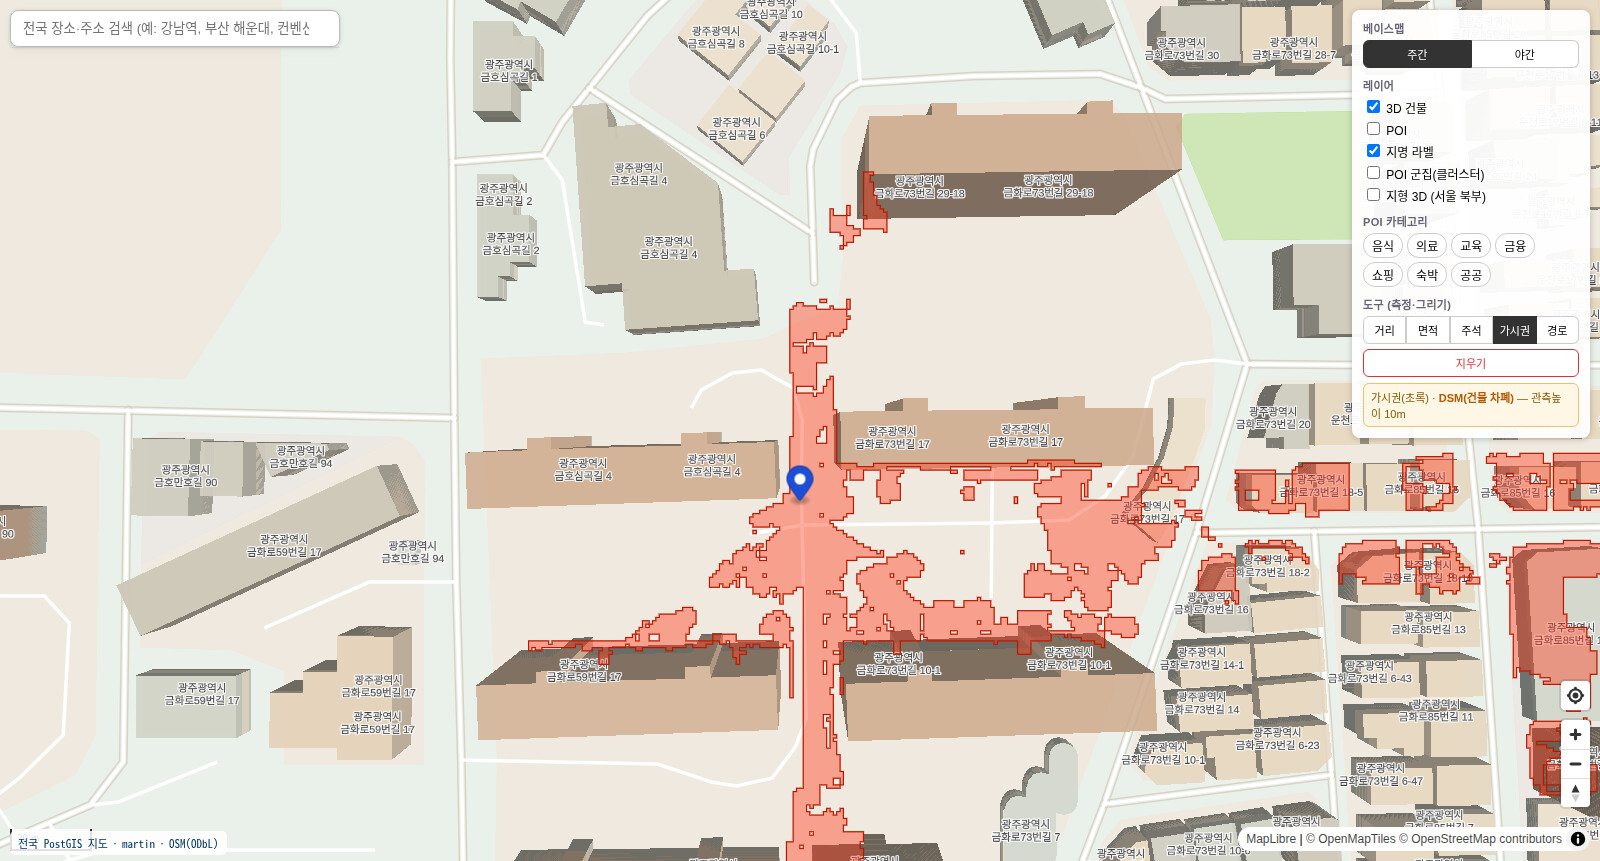
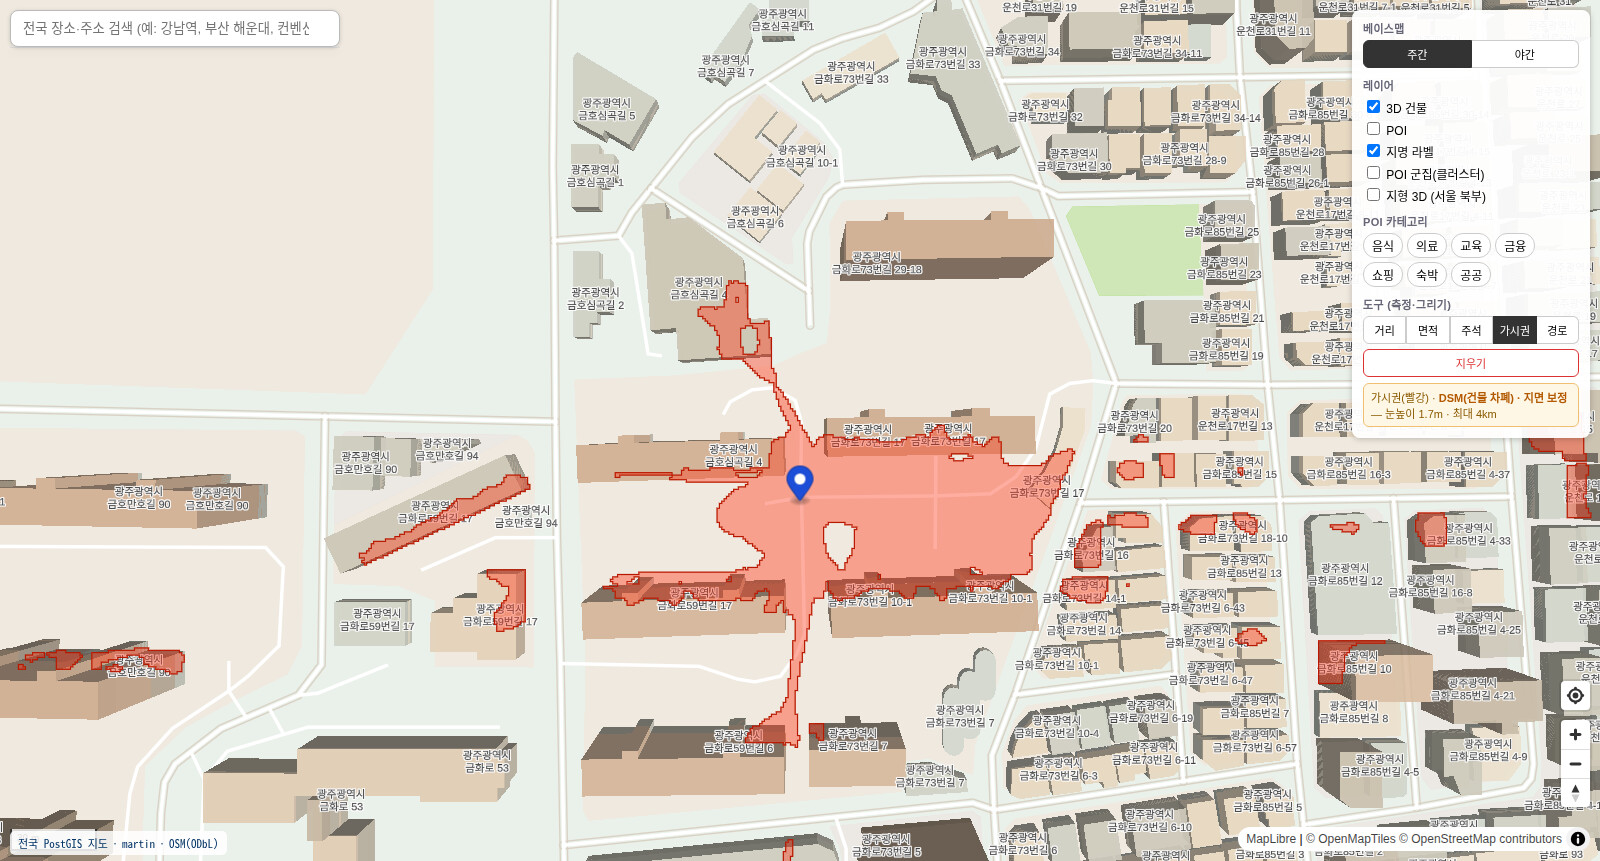
fix: 가시권 표면을 '지면(DTM)+건물'로 재구성 — 나무/노이즈 과차폐 제거
문제: LAS가 미분류라 max-Z DSM이 가로수·노이즈까지 표면으로 잡아 보여야 할
도로·개활지가 가려짐(과도한 차폐).
해결: 지면 DTM(최소Z) 평활화 + 건물 footprint(708동) 높이만 가산.
- scripts/build_viewshed_surface.py: LAS→DTM→평활화→건물 rasterize
- 같은 지점 가시면적 1.6천→1.1만㎡ (도로·개활지가 제대로 보임)
- README/스크린샷 갱신

diff --git a/scripts/build_viewshed_surface.py b/scripts/build_viewshed_surface.py
@@ -1,0 +1,64 @@
+#!/usr/bin/env python3
+"""가시권용 '건물 차폐' 표면 = 지면(DTM, 최소Z) + 건물 footprint 높이.
+LAS가 미분류라 max-Z DSM은 나무·노이즈가 시야를 헛막음 → 지면 위에 건물만 세워
+나무/노이즈를 배제. 사람 눈높이 도심 가시권에 적합.
+사용: /usr/bin/python3 build_viewshed_surface.py
+산출: viewer/gwangju_dsm_3857.tif (지면+건물, EPSG:3857, 1m)  ← /viewshed가 사용
+"""
+import glob, subprocess, numpy as np, laspy
+from osgeo import gdal, osr
+gdal.UseExceptions()
+
+LAS = sorted(glob.glob("/home/asus-3080/gsplat-pilot/data/gwangju/*.las"))
+VIEWER = "/home/asus-3080/gsplat-pilot/viewer"
+DTM = "/tmp/gw_dtm.tif"; OUT = VIEWER + "/gwangju_dsm_3857.tif"
+RES = 1.0
+P4 = "+proj=tmerc +lat_0=38 +lon_0=127 +k=1 +x_0=200000 +y_0=500000 +ellps=GRS80 +towgs84=0,0,0,0,0,0,0 +units=m +no_defs"
+
+# union 범위 (LAS x=easting, y=northing)
+emin=nmin=1e18; emax=nmax=-1e18
+for p in LAS:
+    h=laspy.open(p).header
+    emin=min(emin,h.mins[0]); emax=max(emax,h.maxs[0])
+    nmin=min(nmin,h.mins[1]); nmax=max(nmax,h.maxs[1])
+W=int((emax-emin)/RES); H=int((nmax-nmin)/RES)
+print(f"DTM {W}x{H}")
+
+# 지면 = 셀별 최소Z (나무 밑 지면 통과점 활용). 노이즈 방지 위해 5%분위 근사로 min 사용
+dtm=np.full((H,W), 1e9, np.float32); d=dtm.ravel()
+for p in LAS:
+    las=laspy.read(p)
+    e=np.asarray(las.x); n=np.asarray(las.y); z=np.asarray(las.z)
+    col=np.clip(((e-emin)/RES).astype(np.int32),0,W-1)
+    row=np.clip(((nmax-n)/RES).astype(np.int32),0,H-1)
+    fl=row*W+col; o=np.argsort(z)[::-1]   # 내림차순 → 마지막(최소)이 남음
+    np.minimum.at(d,fl[o],z[o])
+    print(f"  {p.split('/')[-1]}: {len(z):,}")
+dtm[dtm>1e8]=-9999.0
+
+s=osr.SpatialReference(); s.ImportFromProj4(P4)
+ds=gdal.GetDriverByName("GTiff").Create(DTM,W,H,1,gdal.GDT_Float32,["COMPRESS=DEFLATE"])
+ds.SetGeoTransform((emin,RES,0,nmax,0,-RES)); ds.SetProjection(s.ExportToWkt())
+ds.GetRasterBand(1).WriteArray(dtm); ds.GetRasterBand(1).SetNoDataValue(-9999); ds=None
+subprocess.run(["cp",DTM,"/tmp/_d0.tif"],check=True)
+subprocess.run(["gdal_fillnodata.py","-md","25","/tmp/_d0.tif",DTM],check=True)
+# 3857 변환
+DTM3857="/tmp/gw_dtm_3857.tif"
+subprocess.run(["gdalwarp","-t_srs","EPSG:3857","-tr","1","1","-r","near","-dstnodata","-9999",
+                "-overwrite","-co","COMPRESS=DEFLATE",DTM,DTM3857],check=True)
+
+# 지면 평활화(6m 평균→bilinear 업샘플): 1m 요철·노이즈 제거 → 눈높이 시선이 매끈히 통과
+g=gdal.Open(DTM3857); gt=g.GetGeoTransform(); Wd,Hd=g.RasterXSize,g.RasterYSize
+te=[str(gt[0]), str(gt[3]+Hd*gt[5]), str(gt[0]+Wd*gt[1]), str(gt[3])]; g=None
+subprocess.run(["gdalwarp","-tr","6","6","-r","average","-dstnodata","-9999","-overwrite",
+                DTM3857,"/tmp/gw_coarse.tif"],check=True)
+subprocess.run(["gdalwarp","-te",*te,"-ts",str(Wd),str(Hd),"-r","bilinear","-dstnodata","-9999",
+                "-overwrite","/tmp/gw_coarse.tif",OUT],check=True)
+
+# 건물 footprint(PostGIS, 높이) → 3857 GeoJSON, 매끈 지면에 가산 → 지면+건물 표면
+PG="PG:host=localhost port=5432 dbname=gis user=postgres password=gis"
+subprocess.run(["ogr2ogr","-f","GeoJSON","-t_srs","EPSG:3857","/tmp/gw_blds.geojson",
+                PG,"-sql","SELECT geom, height FROM gwangju_buildings"],check=True)
+subprocess.run(["gdal_rasterize","-a","height","-add","/tmp/gw_blds.geojson",OUT],check=True)
+a=gdal.Open(OUT).ReadAsArray(); v=a[a>-9999]
+print(f"완료: {OUT}  표고 {v.min():.0f}~{v.max():.0f}m (매끈 지면+건물, 나무·노이즈 제외)")

diff --git a/README.md b/README.md
@@ -29,7 +29,7 @@
 |---|---|
 | ![지형3D](docs/screenshots/feat_terrain.jpg) | ![가시권](docs/screenshots/feat_viewshed.jpg) |
 
-가시권 — LiDAR DSM 건물 차폐 (광주): 관측점에서 보이는 영역(빨강)이 도로를 따라 뻗고, 건물 뒤는 비가시
+가시권 — LiDAR 건물 차폐 (광주, 지면+건물 표면): 보이는 영역(빨강)이 도로·개활지를 따라 뻗고 건물에 가림 (나무·노이즈 제외)
 
 ![가시권DSM](docs/screenshots/feat_viewshed_dsm.jpg)
 
@@ -114,8 +114,9 @@ scripts/load_official_juso.sh shp <SHP경로> 5179
 cd viewer && gdal2tiles.py --xyz -z 11-14 -r near -w none terrain_rgb.tif terrain
 # 가시권은 addr_server의 /viewshed 가 terrain_dem.tif에 gdal_viewshed 를 실행
 
-# (선택) 건물 차폐 가시권용 고해상 DSM — 광주 LiDAR(LAS)에서 생성
-/usr/bin/python3 scripts/build_lidar_dsm.py   # → gwangju_dsm_3857.tif (1m, 건물·수목 포함)
+# (선택) 건물 차폐 가시권 표면 — 광주 LiDAR 지면(DTM) + 건물 footprint
+#   max-Z DSM은 나무·노이즈가 시선을 헛막음 → 매끈 지면 위에 건물만 세워 정확도↑
+/usr/bin/python3 scripts/build_viewshed_surface.py   # → gwangju_dsm_3857.tif (1m, 지면+건물)
 ```
 
 ### 3-2) (선택) 경로탐색용 도로망 적재 (pgRouting)
